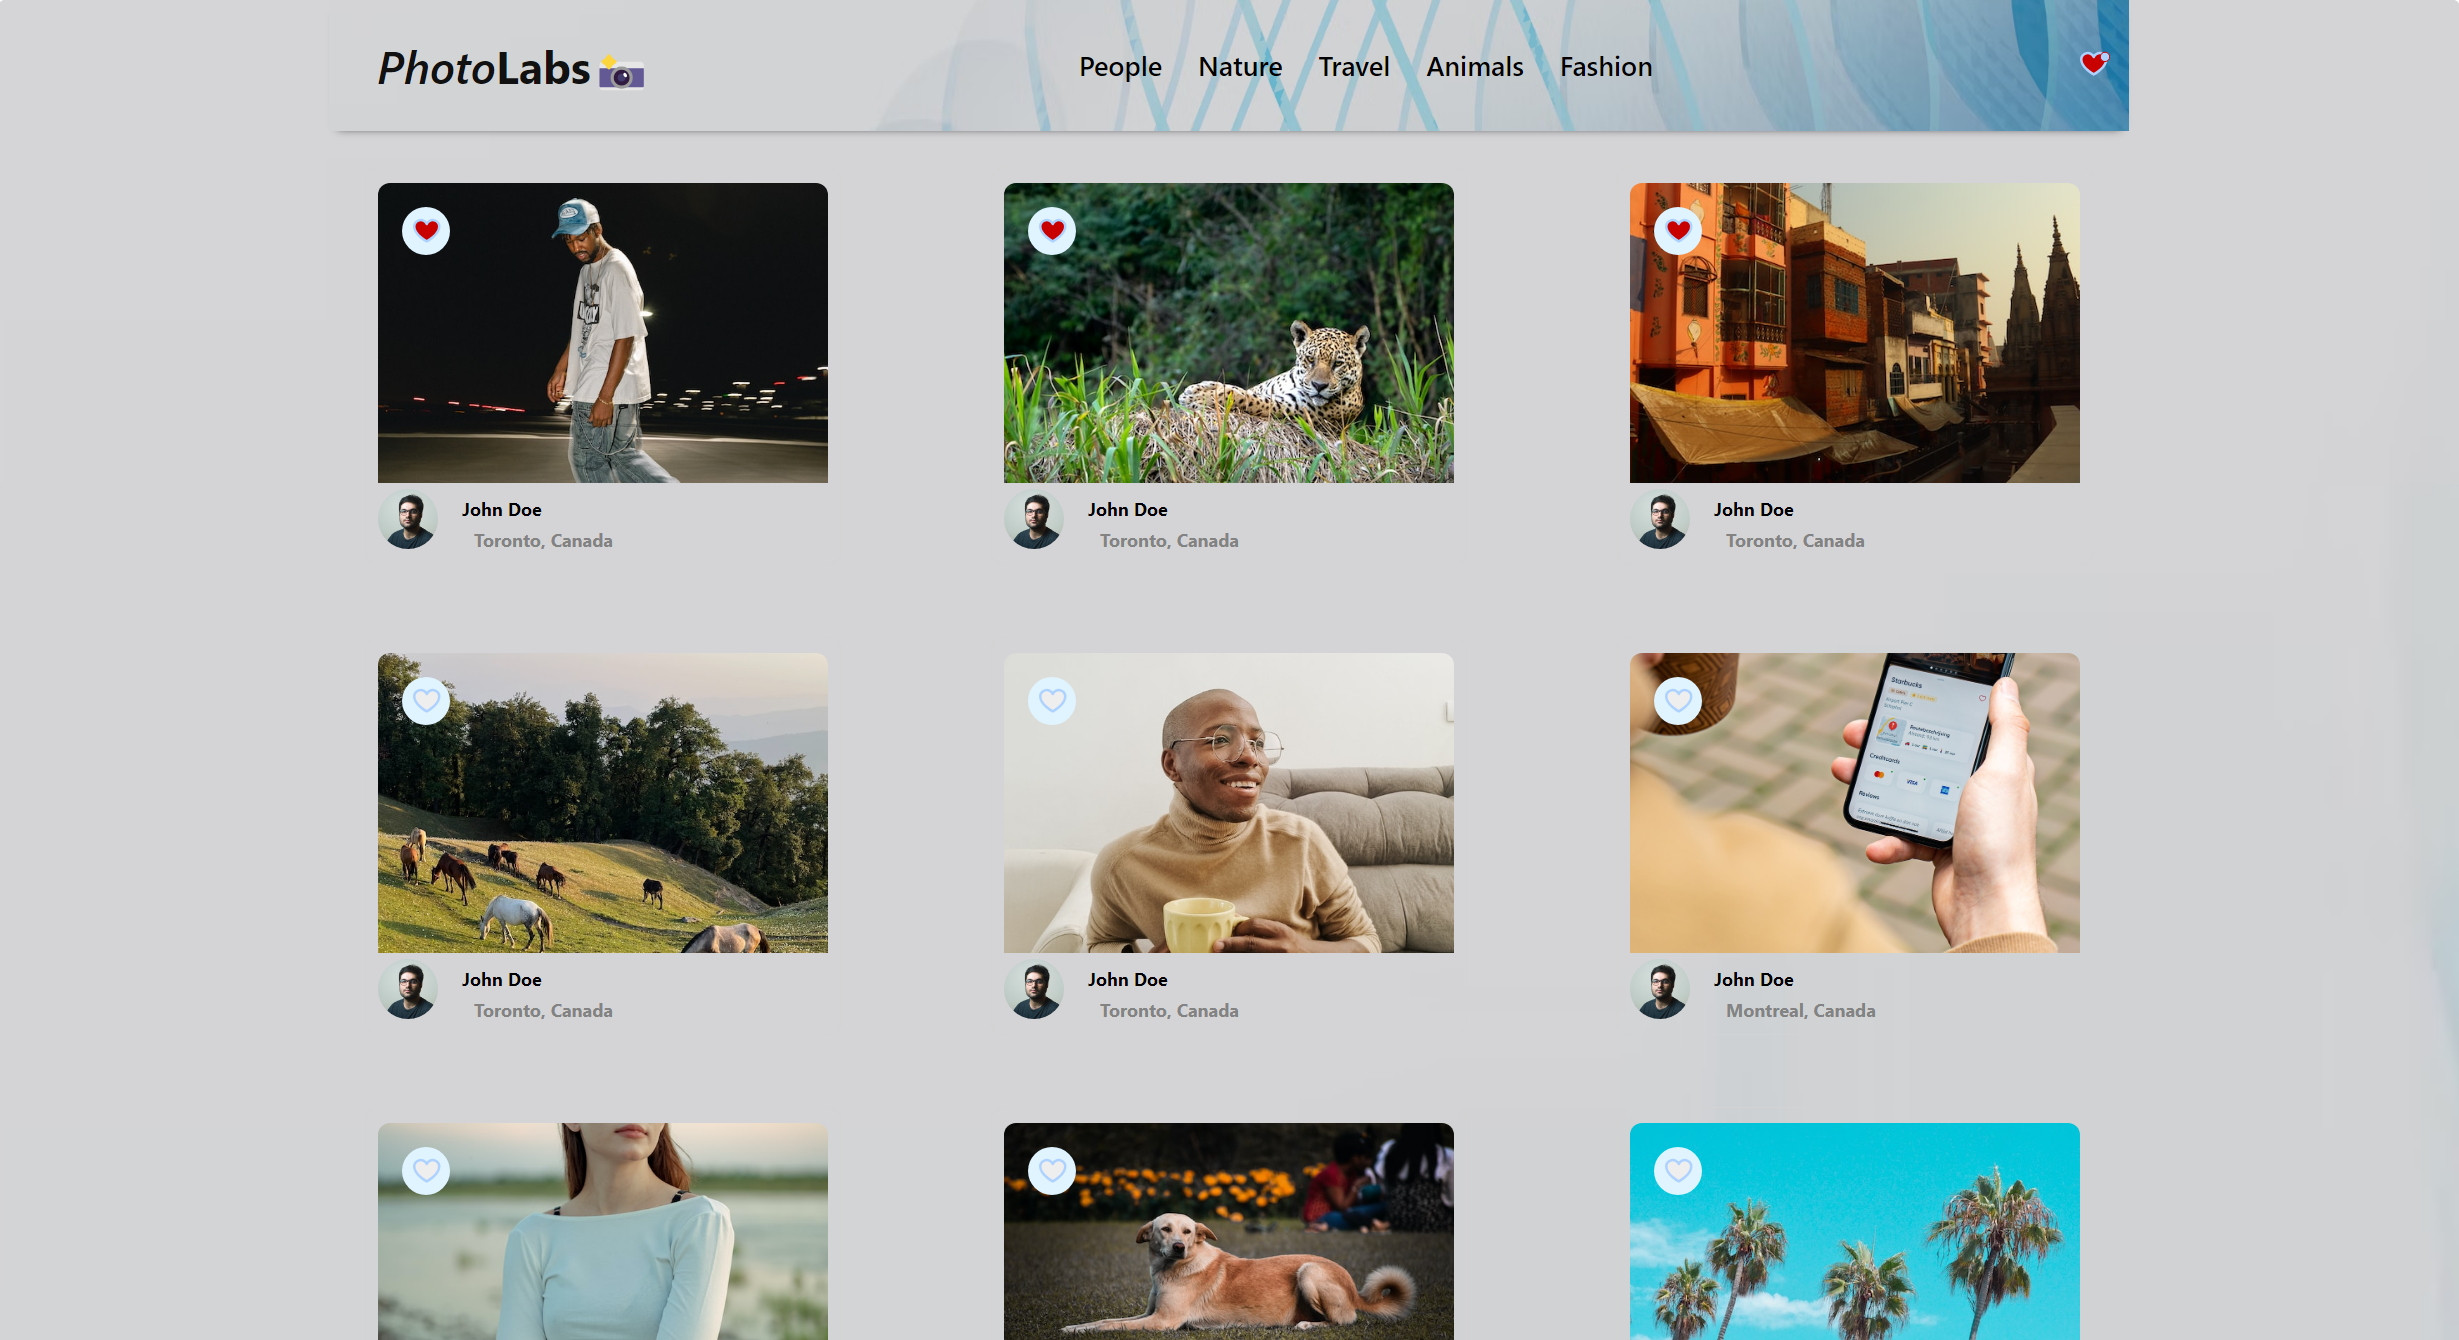
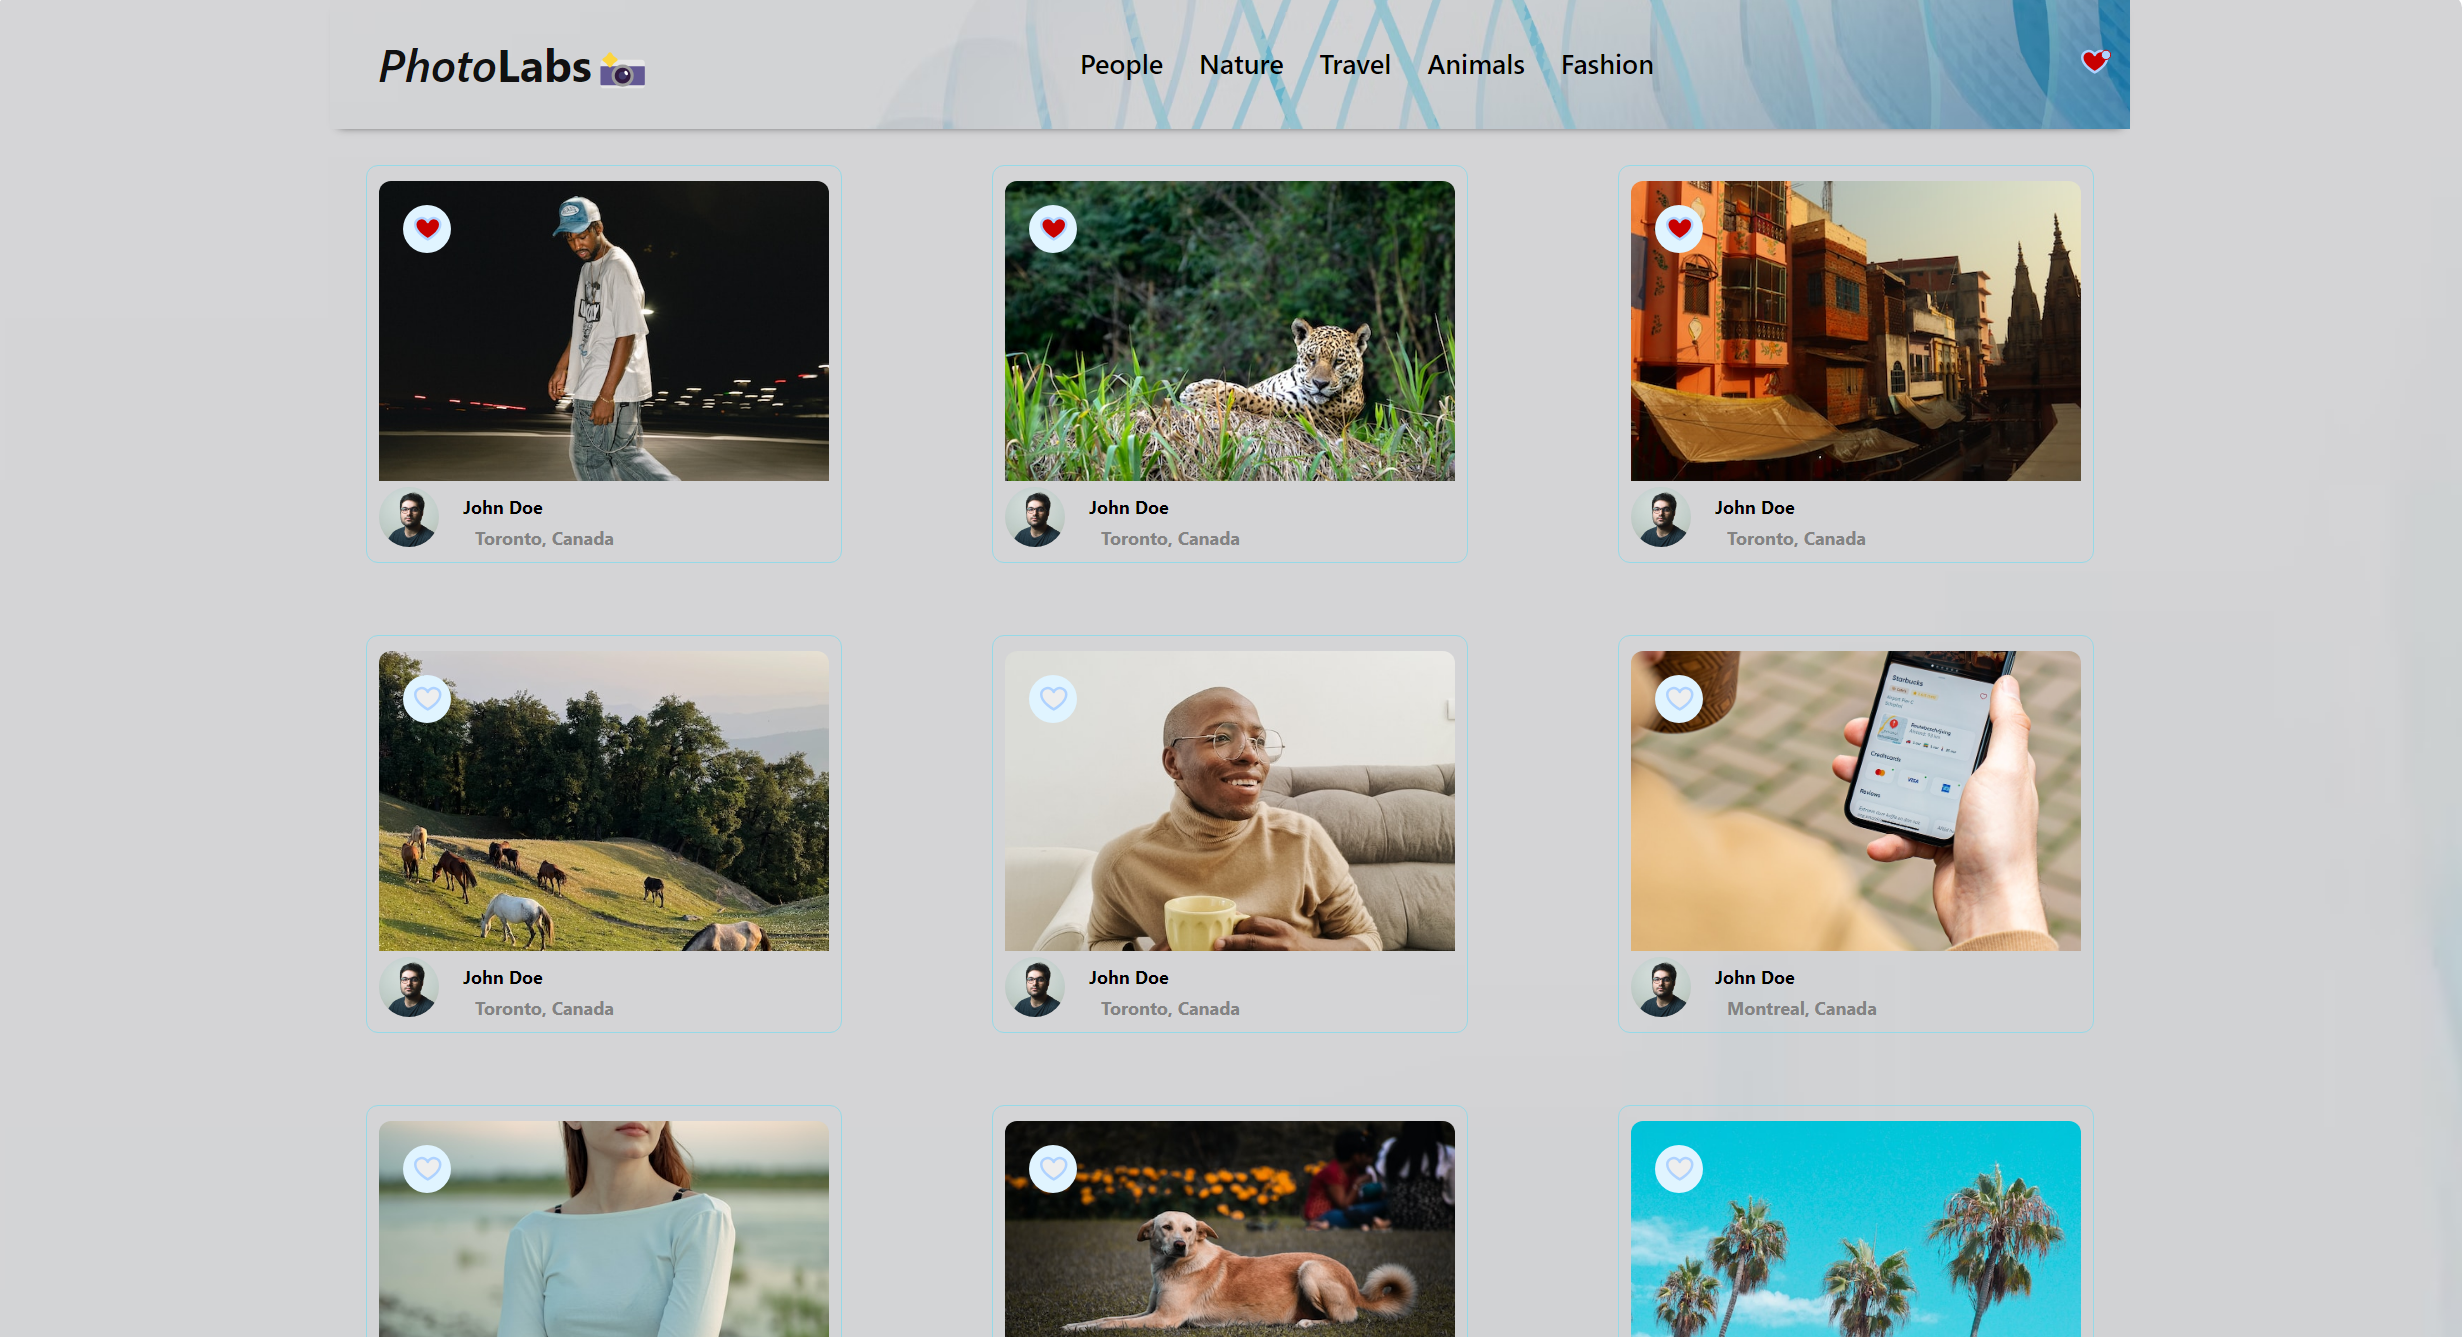
Add more styling, update project photos

diff --git a/frontend/src/styles/PhotoDetailsModal.scss b/frontend/src/styles/PhotoDetailsModal.scss
@@ -10,6 +10,7 @@
   border-radius: 12px;
   background-image: url('https://images.unsplash.com/photo-1694327875197-252cfe16f668?q=80&w=2532&auto=format&fit=crop&ixlib=rb-4.0.3&ixid=M3wxMjA3fDB8MHxwaG90by1wYWdlfHx8fGVufDB8fHx8fA%3D%3D');
   background-size: cover;
+  padding-left: 20px;
 }
 
 .photo-details-modal__close-button {
@@ -31,8 +32,8 @@
 }
 
 .photo-details-modal__images {
-  margin-left: 36px;
-  margin-right: 30px;
+  margin-left: 30px;
+  margin-right: 32px;
   margin-top: 8px;
 }
 
@@ -55,6 +56,7 @@
   display: flex;
   font-size: 16px;
   padding-top: 5px;
+  padding-left: 10px;
 }
 
 .photo-details-modal__header {

diff --git a/frontend/src/styles/PhotoListItem.scss b/frontend/src/styles/PhotoListItem.scss
@@ -1,8 +1,8 @@
 .photo-list__item {
   margin: 24px;
   padding: 8px;
-  border-width: 0.5px;
-  border-color: lightgray;
+  border-width: 1.2px;
+  border-color: rgb(149, 217, 231);
   border-style: solid;
   border-radius: 8px;
   max-width: fit-content;
